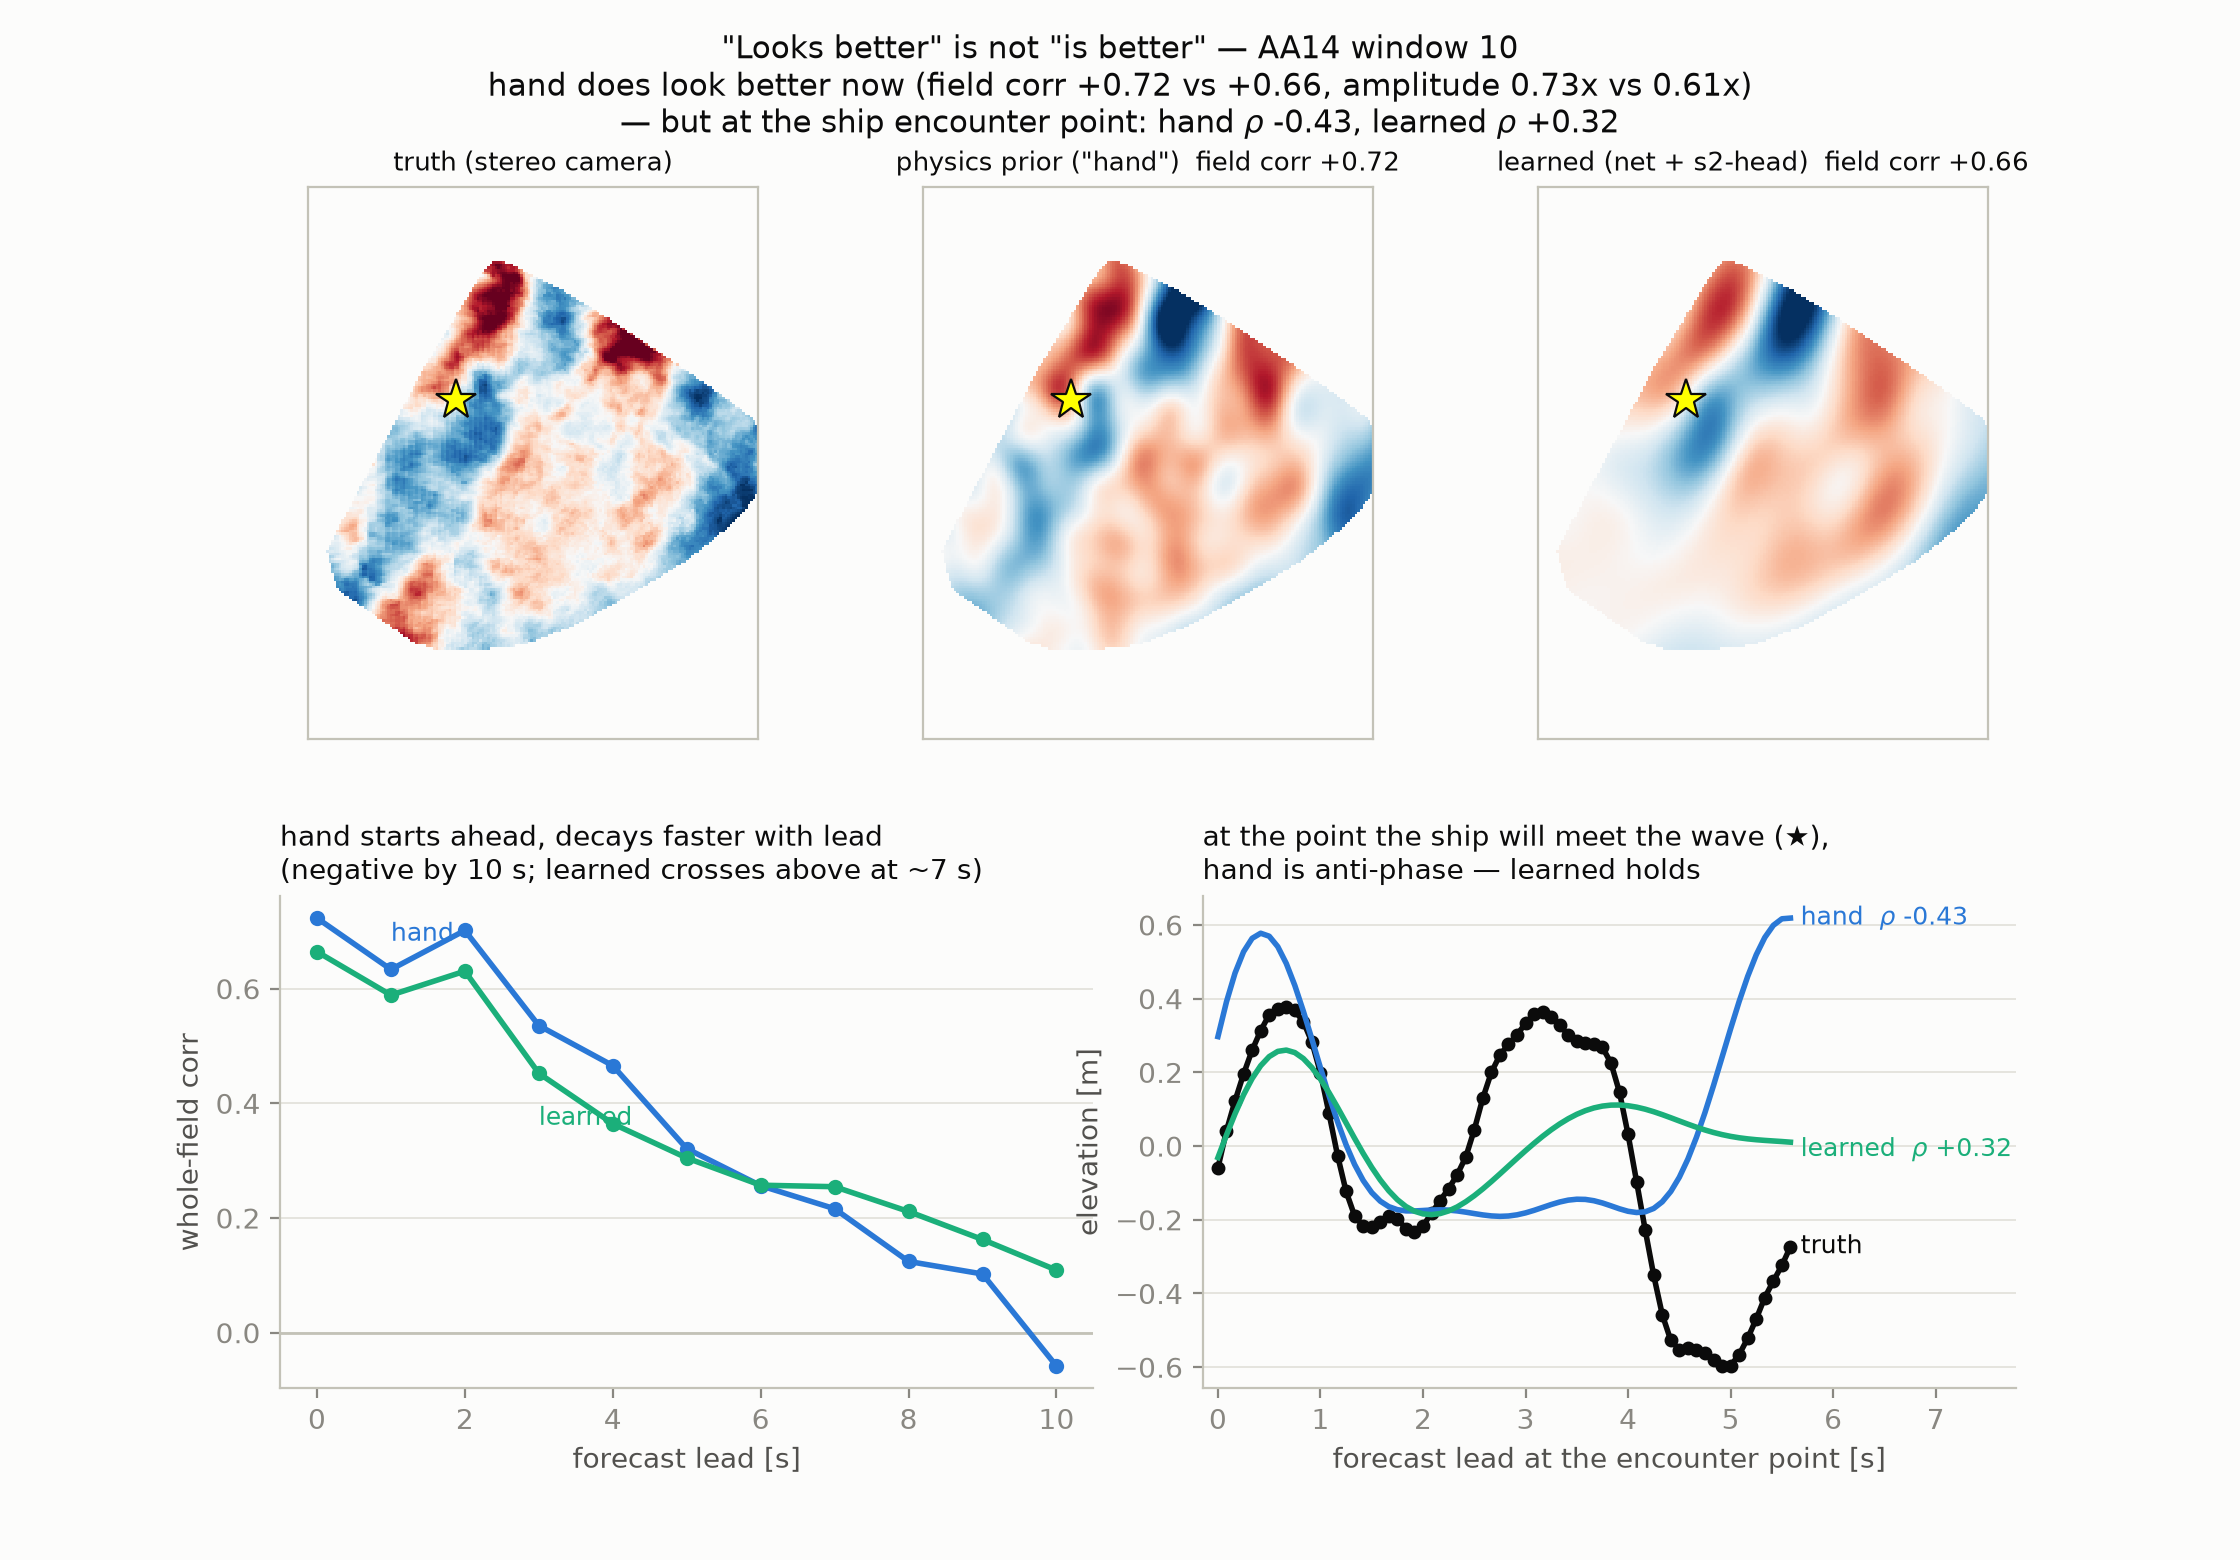
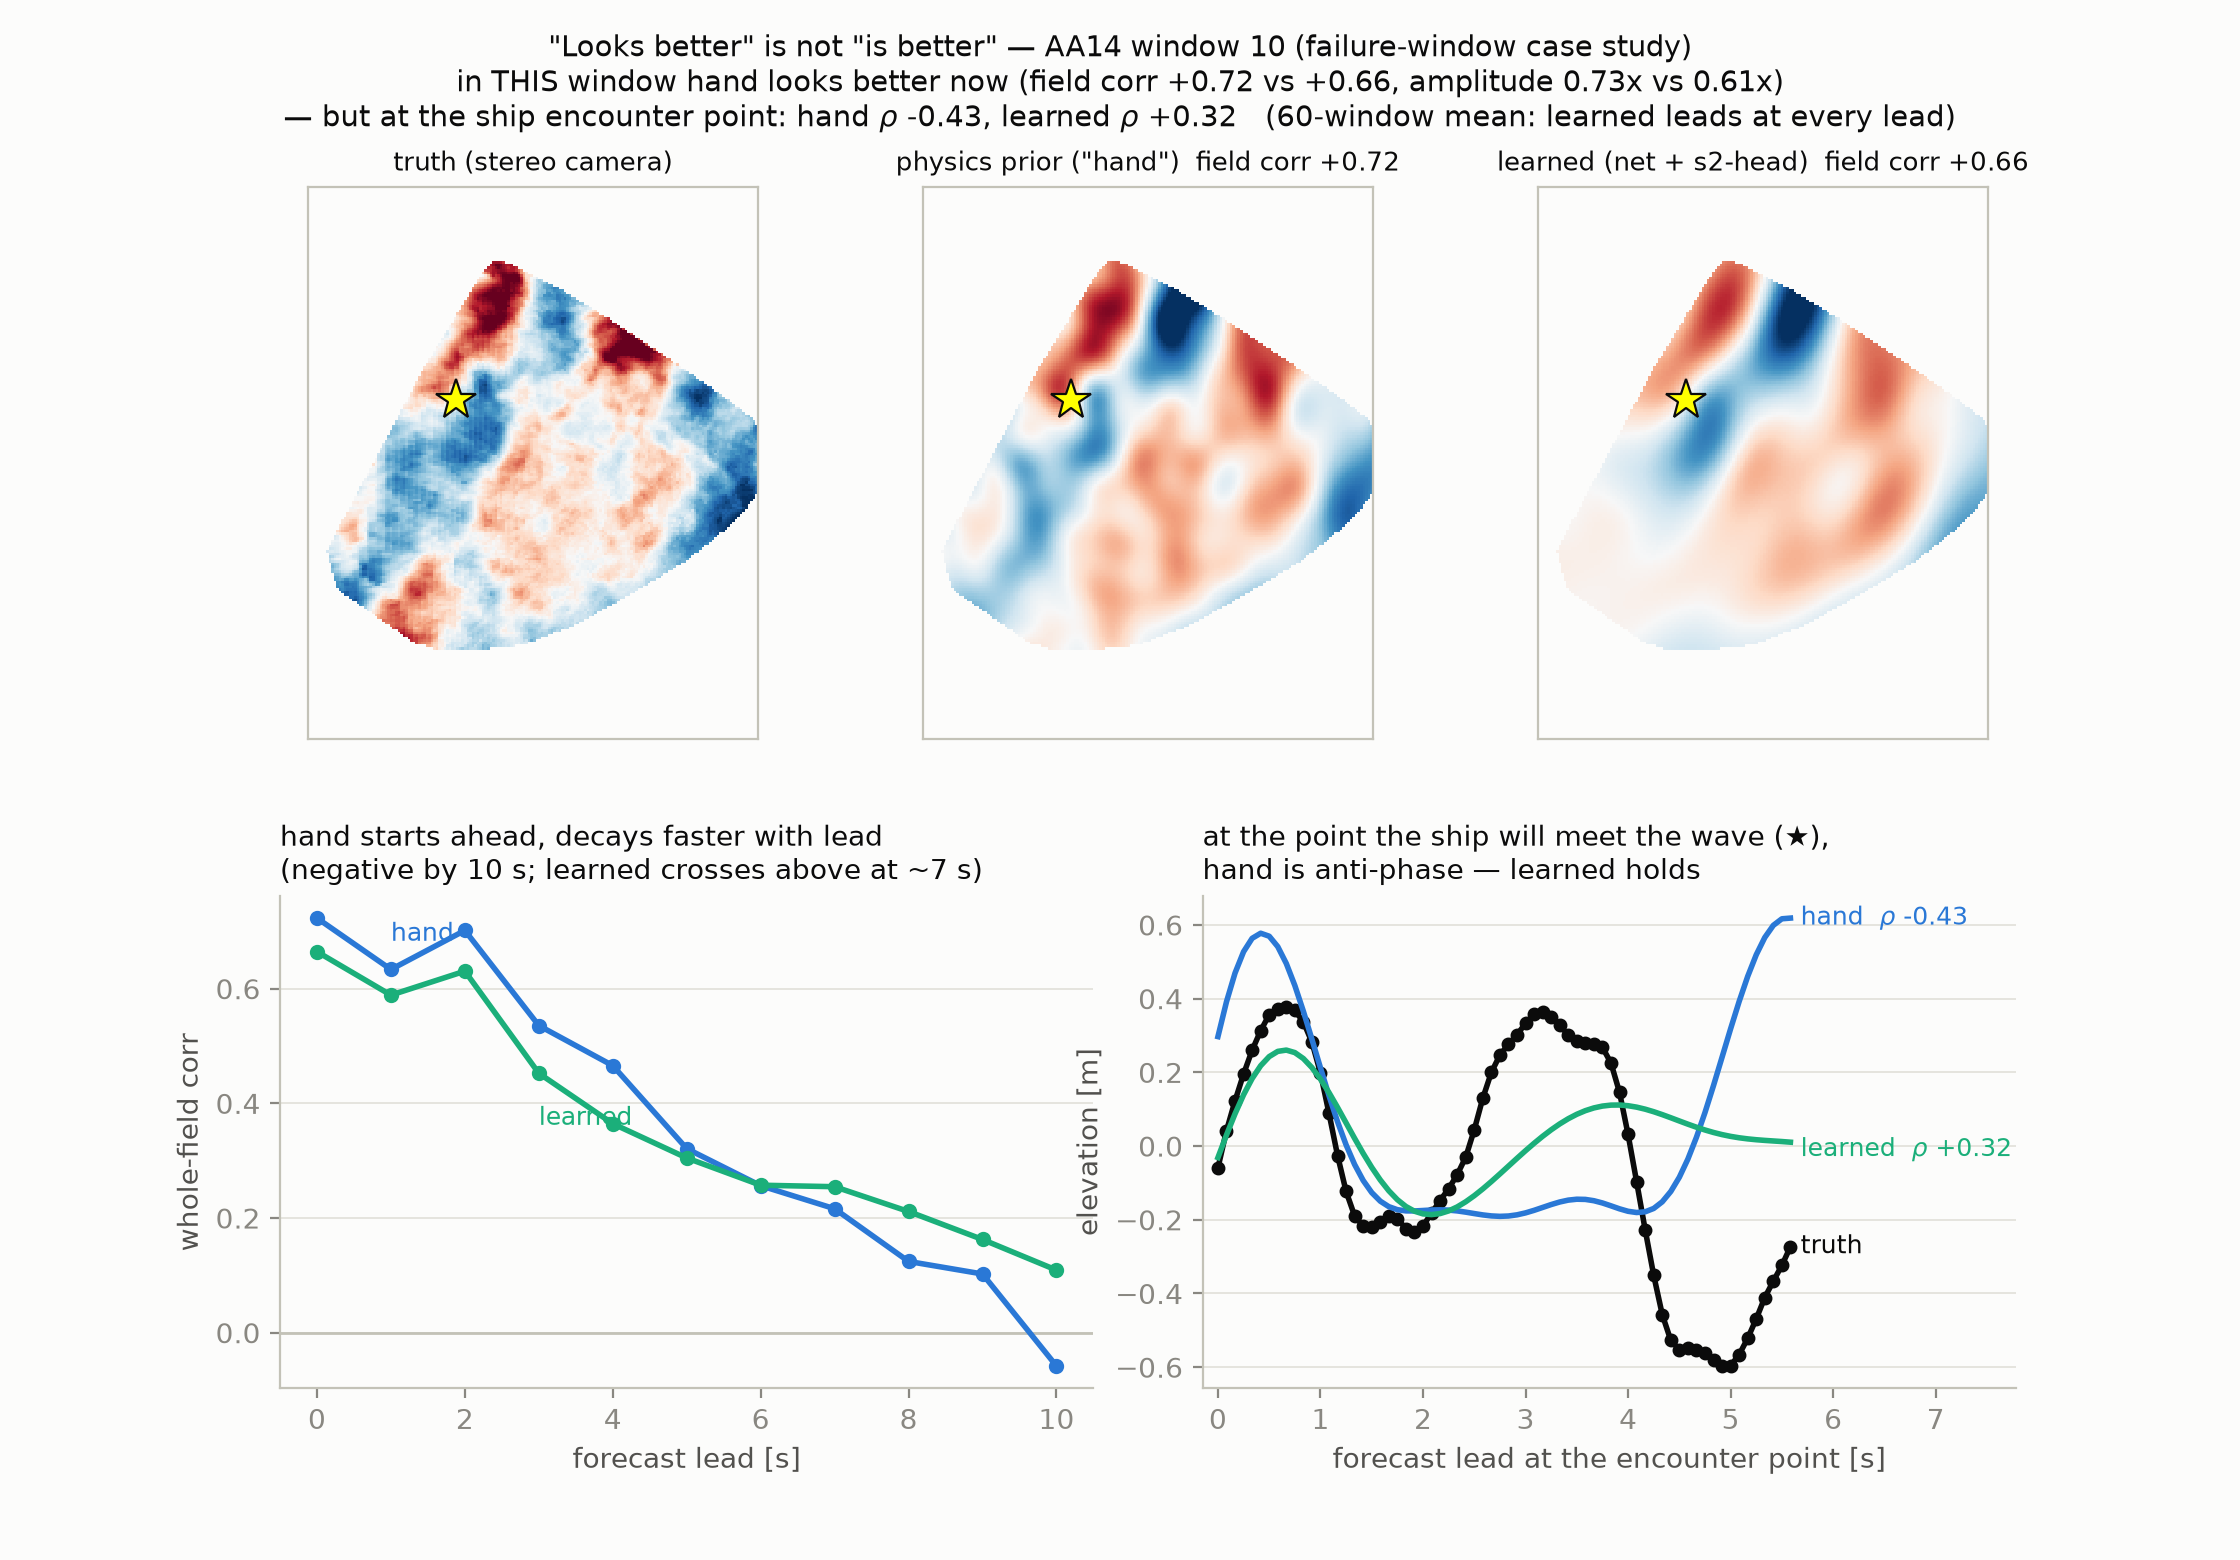
research(phd): [branch] B-11 완료 — fig_ext2 캡션 정정 (창-특이 사례 명시 + 60창 평균 learned 전 리드 우위 주석)

Changed region(s): [[0.125, 0.0, 0.875, 0.0923]]

diff --git a/wavesplat/scripts/d3_external_figs.py b/wavesplat/scripts/d3_external_figs.py
@@ -286,12 +286,15 @@ def fig2(name='AA14', wi=10):
                   loc='left', color=C_INK)
     style_ax(axb)
     fig.suptitle(
-        f'"Looks better" is not "is better" — {name} window {wi}\n'
-        f'hand does look better now (field corr {cl_h[0]:+.2f} vs '
-        f'{cl_n[0]:+.2f}, amplitude {sd_h/sd_t:.2f}x vs {sd_n/sd_t:.2f}x)\n'
+        f'"Looks better" is not "is better" — {name} window {wi} '
+        f'(failure-window case study)\n'
+        f'in THIS window hand looks better now (field corr {cl_h[0]:+.2f} '
+        f'vs {cl_n[0]:+.2f}, amplitude {sd_h/sd_t:.2f}x vs '
+        f'{sd_n/sd_t:.2f}x)\n'
         f'— but at the ship encounter point: hand $\\rho$ {ch:+.2f}, '
-        f'learned $\\rho$ {cn:+.2f}',
-        fontsize=11, color=C_INK)
+        f'learned $\\rho$ {cn:+.2f}   '
+        f'(60-window mean: learned leads at every lead)',
+        fontsize=10.5, color=C_INK)
     fig.tight_layout(rect=(0, 0, 1, 0.885))
     p = f'{OUT}/fig_ext2_field_vs_track_{DATE}.png'
     fig.savefig(p)
